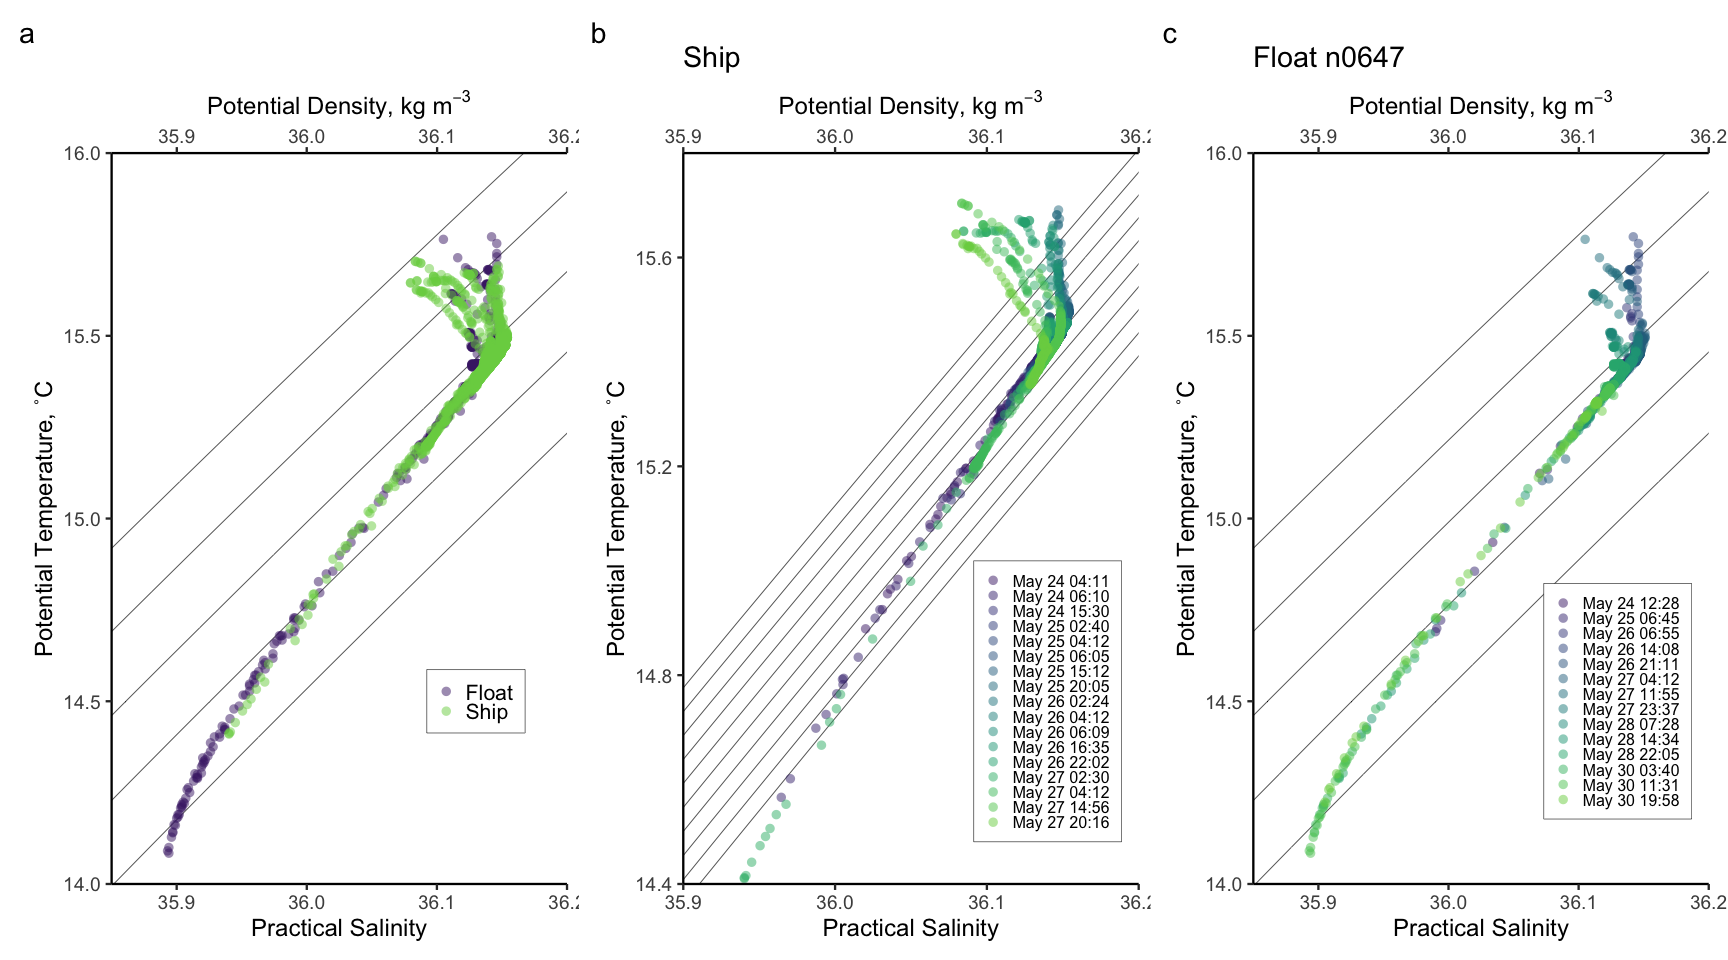
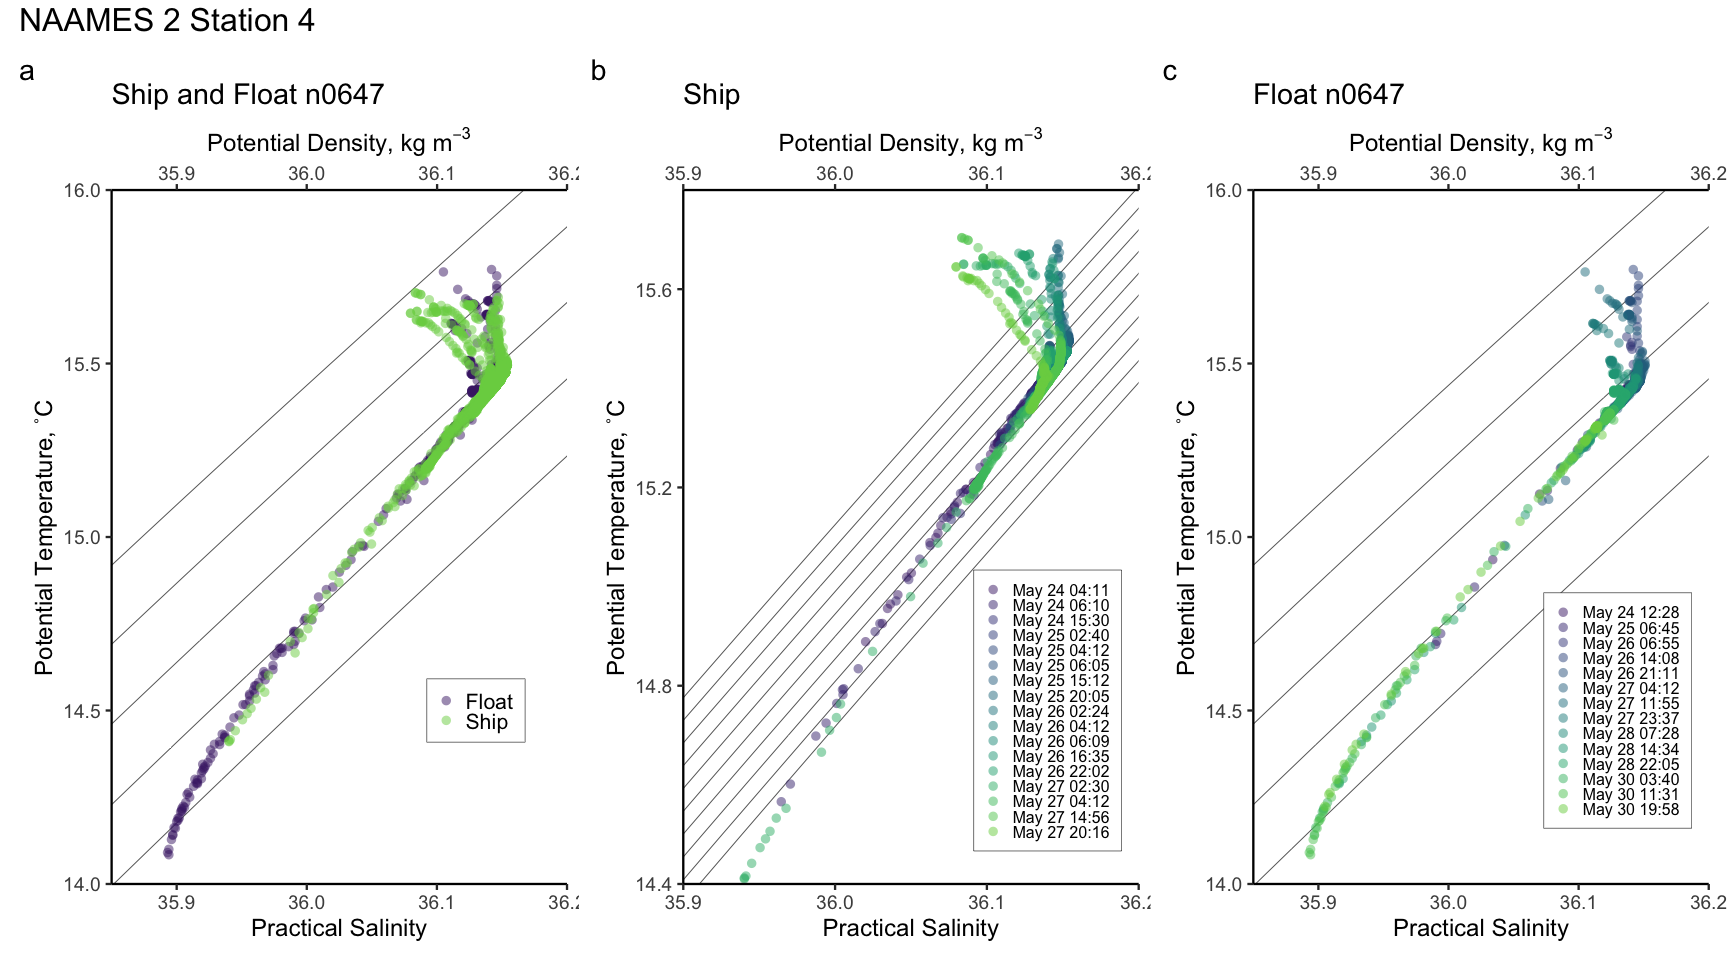
more edits to figs

diff --git a/rmd/Floats.md b/rmd/Floats.md
@@ -183,7 +183,8 @@ s4.ts <- PlotSvalbard::ts_plot(s4_subset, temp_col = "potT", sal_col = "s", colo
         legend.position = c(0.8, 0.25),
         legend.text = element_text(size = 16),
         legend.background = element_rect(size = 0.2, linetype = "solid", color = "black"),
-        legend.spacing.y = unit(0, "pt"))
+        legend.spacing.y = unit(0, "pt")) +
+  ggtitle("Ship and Float n0647")
 
 s4_subset_ship <- s4_subset %>% filter(type == "Ship")
 
@@ -221,7 +222,7 @@ s4.ts3 <- PlotSvalbard::ts_plot(s4_subset_float, temp_col = "potT", sal_col = "s
 ```
 
 ``` r
-s4.ts + s4.ts2 + s4.ts3 + plot_annotation(tag_levels = "a") 
+s4.ts + s4.ts2 + s4.ts3 + plot_annotation(tag_levels = "a", title = "NAAMES 2 Station 4", theme = theme(plot.title = element_text(size = 24))) 
 ```
 
 ![](Floats_files/figure-gfm/unnamed-chunk-8-1.png)<!-- -->
@@ -253,7 +254,8 @@ s6.ts <- PlotSvalbard::ts_plot(s6_subset, temp_col = "potT", sal_col = "s", colo
         legend.position = c(0.8, 0.7),
         legend.text = element_text(size = 12),
         legend.background = element_rect(size = 0.2, linetype = "solid", color = "black"),
-        legend.spacing.y = unit(0, "pt"))
+        legend.spacing.y = unit(0, "pt")) +
+  ggtitle("Ship and Float")
 
 s6_subset_ship <- s6_subset %>% filter(type == "Ship")
 
@@ -270,7 +272,7 @@ s6.ts2 <- PlotSvalbard::ts_plot(s6_subset_ship, temp_col = "potT", sal_col = "s"
         legend.text = element_text(size = 12),
         legend.background = element_rect(size = 0.2, linetype = "solid", color = "black"),
         legend.spacing.y = unit(0, "pt")) +
-  ggtitle("Ship")
+  ggtitle("Ship & Floats n0846 & n0847")
 
 
 s6_subset_float <- s6_subset %>% filter(type == "Float")
@@ -292,7 +294,7 @@ s6.ts3 <- PlotSvalbard::ts_plot(s6_subset_float, temp_col = "potT", sal_col = "s
 ```
 
 ``` r
-s6.ts + s6.ts2 + s6.ts3 + plot_annotation(tag_levels = "a") 
+s6.ts + s6.ts2 + s6.ts3 + plot_annotation(tag_levels = "a", title = "NAAMES 3 Station 6", theme = theme(plot.title = element_text(size = 24))) 
 ```
 
 ![](Floats_files/figure-gfm/unnamed-chunk-10-1.png)<!-- -->
@@ -322,7 +324,7 @@ s3.ts <- PlotSvalbard::ts_plot(s3_subset, temp_col = "potT", sal_col = "s", colo
         legend.text = element_text(size = 12),
         legend.background = element_rect(size = 0.2, linetype = "solid", color = "black"),
         legend.spacing.y = unit(0, "pt")) +
-  ggtitle("NAAMES 3 Station 3 Float n0850")
+  ggtitle("NAAMES 3 Station 3 Ship & Float n0850")
 
 n3s4_subset <- floatsNmldsNezds %>% filter(Cruise == "AT38" & Station == 4, p <= 250) %>%  mutate(type = "Float") %>% select(-c(o2:poc)) %>% distinct() %>% 
   bind_rows(., ship_ctd %>% filter(Cruise == "AT38", Station == 4, p <= 250) %>% mutate(type = "Ship") %>% filter(!plot_date %in% c("Sep 11 03:07")))
@@ -342,7 +344,7 @@ n3s4.ts <- PlotSvalbard::ts_plot(n3s4_subset, temp_col = "potT", sal_col = "s", 
         legend.text = element_text(size = 12),
         legend.background = element_rect(size = 0.2, linetype = "solid", color = "black"),
         legend.spacing.y = unit(0, "pt")) +
-  ggtitle("NAAMES 3 Station 4 Float n0849")
+  ggtitle("NAAMES 3 Station 4 Ship & Float n0849")
 
 
 s35_subset <- ship_ctd %>% filter(Cruise == "AT38", Station == 3.5, p <= 250) %>% mutate(type = "Ship")
@@ -362,7 +364,7 @@ s35.ts <- PlotSvalbard::ts_plot(s35_subset, temp_col = "potT", sal_col = "s", co
         legend.text = element_text(size = 12),
         legend.background = element_rect(size = 0.2, linetype = "solid", color = "black"),
         legend.spacing.y = unit(0, "pt")) +
-  ggtitle("NAAMES 3 Station 3.5")
+  ggtitle("NAAMES 3 Station 3.5 Ship")
 ```
 
 ``` r
